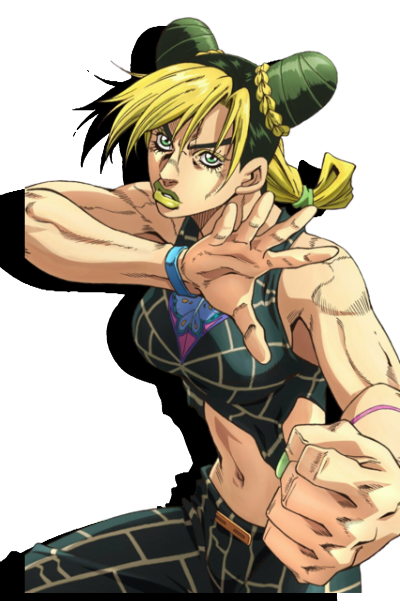
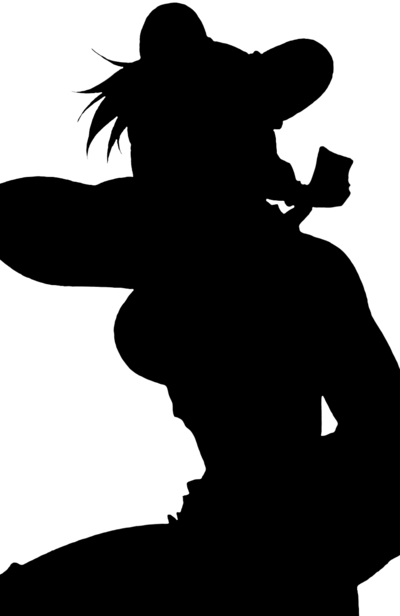
Limatura sezione Parti; inizio sezione Autore

diff --git a/SITO NUOVO/index.html b/SITO NUOVO/index.html
@@ -46,30 +46,22 @@
             </div>
             
             <div id="gallery">
-                <div class="gallery__picture gallery__picture--1"><img src="immagini/koichi.jpg" alt=""></div>
-                <div class="gallery__picture gallery__picture--2"><img src="immagini/crazydiamond.jpg" alt=""></div>
-                <div class="gallery__picture gallery__picture--3"><img src="immagini/chariotrequiem.jpg" alt=""></div>
-                <div class="gallery__picture gallery__picture--4"><img src="immagini/emporio.webp" alt=""></div>
-                <div class="gallery__picture gallery__picture--5"><img src="immagini/giorno.jpg" alt=""></div>
-                <div class="gallery__picture gallery__picture--6"><img src="immagini/doppio.jpg" alt=""></div>
-                <div class="gallery__picture gallery__picture--7"><img src="immagini/dio_part6.jpg" alt=""></div>
-                <div class="gallery__picture gallery__picture--8"><img src="immagini/jotaro_disk.jpg" alt=""></div>
-                <div class="gallery__picture gallery__picture--9"><img src="immagini/jotaroxpolnareff.jpg" alt=""></div>
+                <div class="gallery__picture gallery__picture--1"><img src="immagini/chariotrequiem.jpg" alt=""></div>
+                <div class="gallery__picture gallery__picture--2"><img src="immagini/emporio.webp" alt=""></div>
+                <div class="gallery__picture gallery__picture--3"><img src="immagini/giorno.jpg" alt=""></div>
+                <div class="gallery__picture gallery__picture--4"><img src="immagini/doppio.jpg" alt=""></div>
+                <div class="gallery__picture gallery__picture--5"><img src="immagini/dio_part6.jpg" alt=""></div>
+                <div class="gallery__picture gallery__picture--6"><img src="immagini/jotaro_disk.jpg" alt=""></div>
 
                 <!-- DUPLICATI PER IL LOOP -->
-                <div class="gallery__picture gallery__picture--1"><img src="immagini/koichi.jpg" alt=""></div>
-                <div class="gallery__picture gallery__picture--2"><img src="immagini/crazydiamond.jpg" alt=""></div>
-                <div class="gallery__picture gallery__picture--3"><img src="immagini/chariotrequiem.jpg" alt=""></div>
-                <div class="gallery__picture gallery__picture--4"><img src="immagini/emporio.webp" alt=""></div>
+                <div class="gallery__picture gallery__picture--1"><img src="immagini/chariotrequiem.jpg" alt=""></div>
+                <div class="gallery__picture gallery__picture--2"><img src="immagini/emporio.webp" alt=""></div>
+                <div class="gallery__picture gallery__picture--3"><img src="immagini/giorno.jpg" alt=""></div>
             </div>
 
             <div id="whats_jojo">
-                <div id="whats_jojo__left"></div>
-                <div id="whats_jojo__right">
-
-                </div>
-                <!-- <h2>Cos'é?</h2>
-                <p>Lorem ipsum dolor sit amet consectetur adipisicing elit. Laudantium error provident sit labore perspiciatis tempore officiis, reprehenderit autem quod placeat quasi ab ad illum doloremque sed consequatur perferendis temporibus quis.</p> -->
+                <img src="immagini/araki_shadow1.png" alt="">
+                <img src="immagini/araki_shadow2.png" alt="">
             </div>
 
             <div id="stands">
@@ -81,22 +73,34 @@
                 <h2>Seleziona una parte</h2>
                 <div id="parts__cards">
                     <div class="parts__cards__card"><a href="">
+                        <img src="immagini/johnathan_mugshot_shadow.png" alt="">
                         <img src="immagini/jonathan_mugshot1.png" alt="">
+                        <div class="parts__cards__card__tag"><p>Phantom Blood</p></div>
                     </a></div>
                     <div class="parts__cards__card"><a href="">
+                        <img src="immagini/joseph_mugshot_shadow.png" alt="">
                         <img src="immagini/joseph_mugshot1.png" alt="">
+                        <div class="parts__cards__card__tag"><p>Battle Tendency</p></div>
                     </a></div>
                     <div class="parts__cards__card"><a href="">
+                        <img src="immagini/jotaro_mugshot_shadow.png" alt="">
                         <img src="immagini/jotaro_mugshot1.png" alt="">
+                        <div class="parts__cards__card__tag"><p>Stardust Crusaders</p></div>
                     </a></div>
                     <div class="parts__cards__card"><a href="">
+                        <img src="immagini/josuke_mugshot_shadow.png" alt="">
                         <img src="immagini/josuke_mugshot1.png" alt="">
+                        <div class="parts__cards__card__tag"><p>Diamond is Unbreakable</p></div>
                     </a></div>
                     <div class="parts__cards__card"><a href="">
+                        <img src="immagini/giorno_mugshot_shadow.png" alt="">
                         <img src="immagini/giorno_mugshot1.png" alt="">
+                        <div class="parts__cards__card__tag"><p>Golden Wind</p></div>
                     </a></div>
                     <div class="parts__cards__card"><a href="">
+                        <img src="immagini/jolyne_mugshot_shadow.png" alt="">
                         <img src="immagini/jolyne_mugshot1.png" alt="">
+                        <div class="parts__cards__card__tag"><p>Stone Ocean</p></div>
                     </a></div>
                 </div>
             </div>

diff --git a/SITO NUOVO/style.css b/SITO NUOVO/style.css
@@ -194,8 +194,9 @@ main{overflow-x: hidden;}
 
     background: lightblue;
 
-    overflow-x: hidden;
-    overflow-y: hidden;
+    overflow: hidden;
+
+    border: 5px solid white;
 }
 .gallery__picture img{
     height: 100%;
@@ -203,34 +204,31 @@ main{overflow-x: hidden;}
 }
 @keyframes gallery_slide{
     0% {transform: translateX(0px);}
-    100% {transform: translateX(-5958px);}
+    100% {transform: translateX(-3972px);}
 }
 
-.gallery__picture--1 img{transform: translateX(-100px);}
-.gallery__picture--2 img{transform: translateX(-200px);}
-.gallery__picture--3 img{transform: translateX(-150px);}
-.gallery__picture--4 img{transform: translateX(-120px);}
-.gallery__picture--5 img{transform: translateX(-300px);}
-.gallery__picture--6 img{transform: translateX(-50px);}
-.gallery__picture--7 img{transform: translateX(-150px);}
-.gallery__picture--8 img{transform: translateX(-200px);}
-.gallery__picture--9 img{transform: translateX(-280px);}
+.gallery__picture--1 img{transform: translateX(-150px);}
+.gallery__picture--2 img{transform: translateX(-120px);}
+.gallery__picture--3 img{transform: translateX(-300px);}
+.gallery__picture--4 img{transform: translateX(-50px);}
+.gallery__picture--5 img{transform: translateX(-150px);}
+.gallery__picture--6 img{transform: translateX(-150px);}
+
 
 #whats_jojo{
-    background: blue;
+    background: rgb(0, 149, 255);
     height: 600px;
-
-    display: flex;
+    position: relative;
+    overflow: hidden;
 }
-#whats_jojo__left{
-    width: 40%;
-    background: purple;
+#whats_jojo img{
+    height: 100%;
+    padding: 40px;
+    padding-bottom: 0px;
+    position: absolute;
 }
-#whats_jojo__right{
-    width: 60%;
-    background: yellow;
-
-    /* rotate: 20deg; */
+#whats_jojo img:nth-child(2){
+    right: 0px;
 }
 
 
@@ -291,8 +289,8 @@ main{overflow-x: hidden;}
 .parts__cards__card:hover a img{
     height: 120%;
     filter: brightness(100%) saturate(1);
-
-}.parts__cards__card:hover a{
+}
+.parts__cards__card:hover a{
     transform: rotate(3deg);
 }
 
@@ -309,6 +307,44 @@ main{overflow-x: hidden;}
 .parts__cards__card:nth-child(4) a img{transform: translateX(-80px);}
 .parts__cards__card:nth-child(5) a img{transform: translateX(-60px);}
 .parts__cards__card:nth-child(6) a img{transform: translateX(-80px);}
+
+.parts__cards__card:hover a img:nth-child(1){
+    transform: translateX(-120px);
+}
+.parts__cards__card__tag{
+    width: 0%;
+    height: 20%;
+    background: white;
+    /* filter: opacity(80%); */
+    border-top: 5px solid black;
+    border-bottom: 5px solid black;
+    overflow: hidden;
+
+    position: absolute;
+    bottom: 40px;
+
+    transition: all 0.1s ease-out;
+
+    display: flex;
+    /* justify-content: center; */
+    align-items: center;
+}
+.parts__cards__card__tag p{
+    color: black;
+    /* filter: opacity(100%); */
+    min-width: 10px; max-width: 10px;
+    /* text-align: center; */
+    font-family: Regista;
+    font-size: 36px;
+    margin-left: 50px;
+}
+.parts__cards__card:hover .parts__cards__card__tag{
+    width: 120%;
+}
+
+.parts__cards__card:nth-child(4) p{min-width: 200px; margin-left: 35px;}
+.parts__cards__card:nth-child(5) p{margin-left: 70px;}
+.parts__cards__card:nth-child(6) p{margin-left: 80px;}
 
 footer{
     background: rgb(20,20,20);
